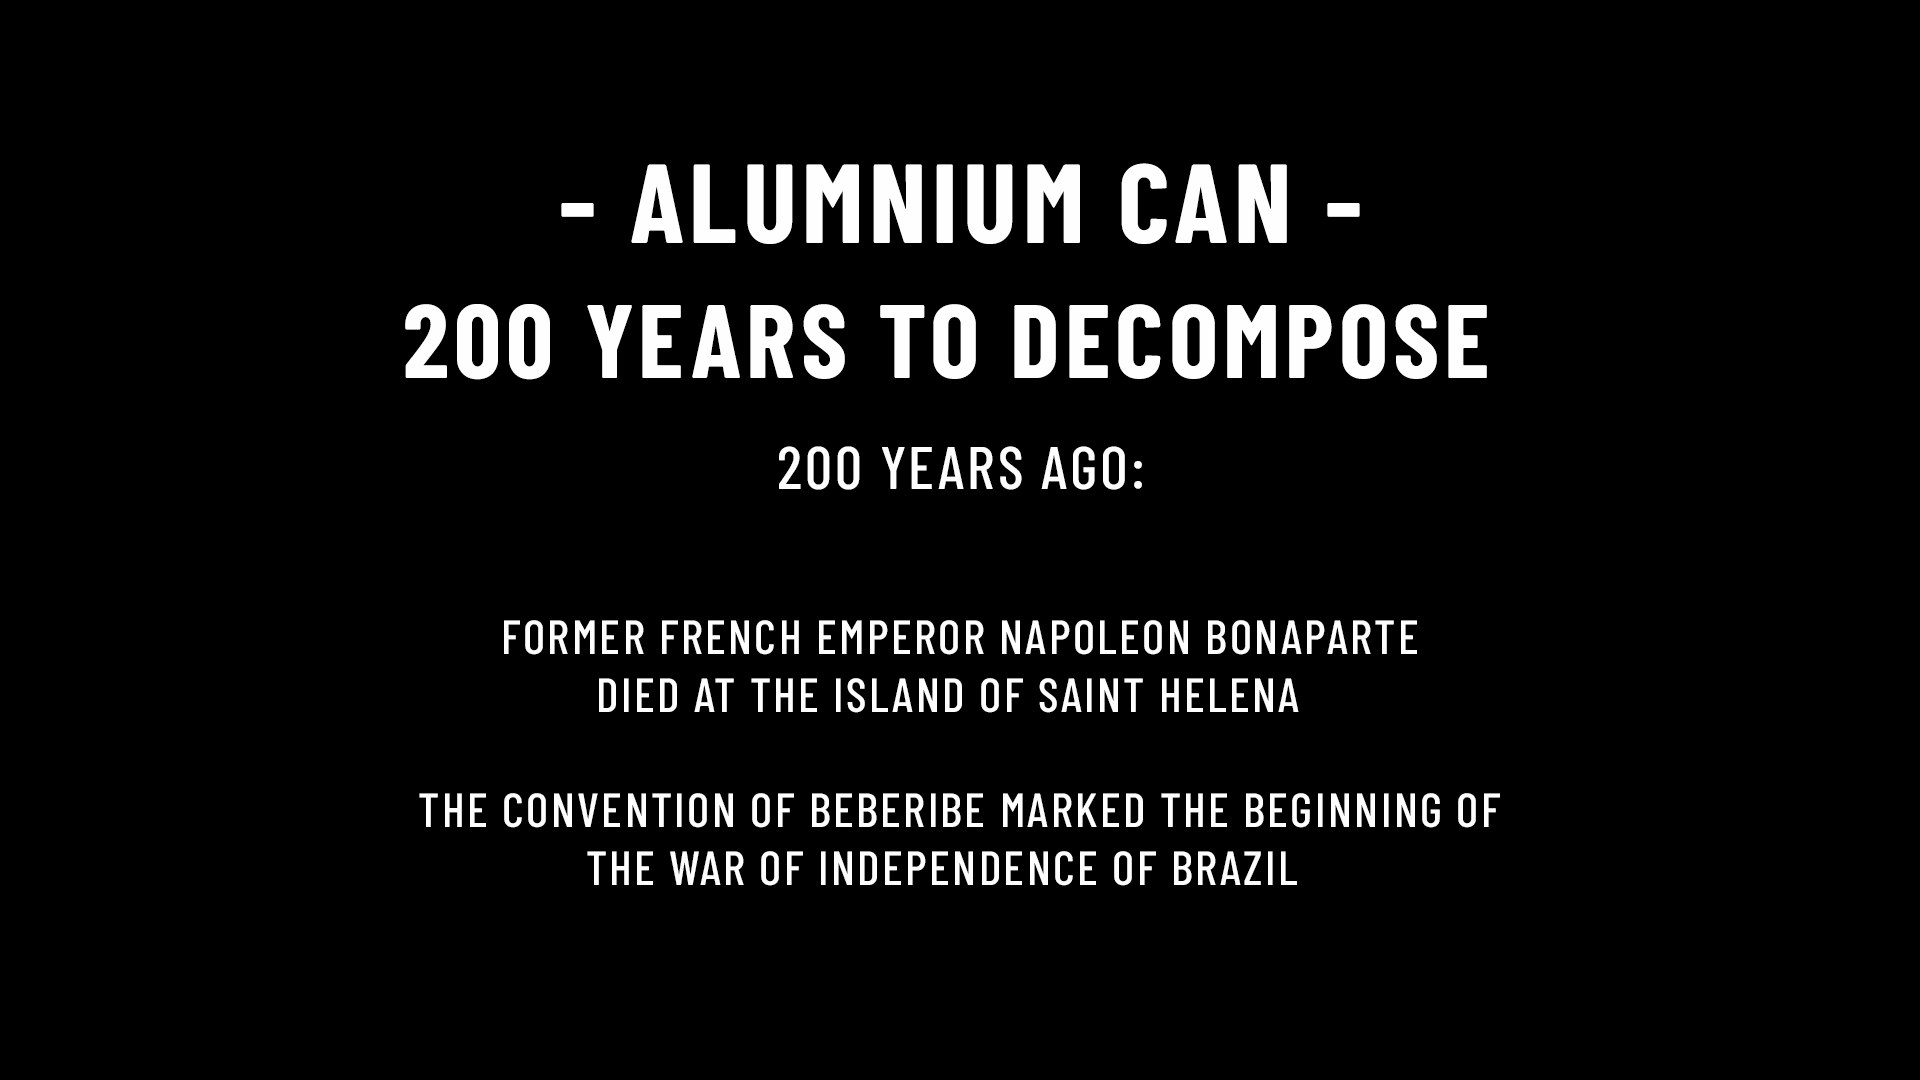
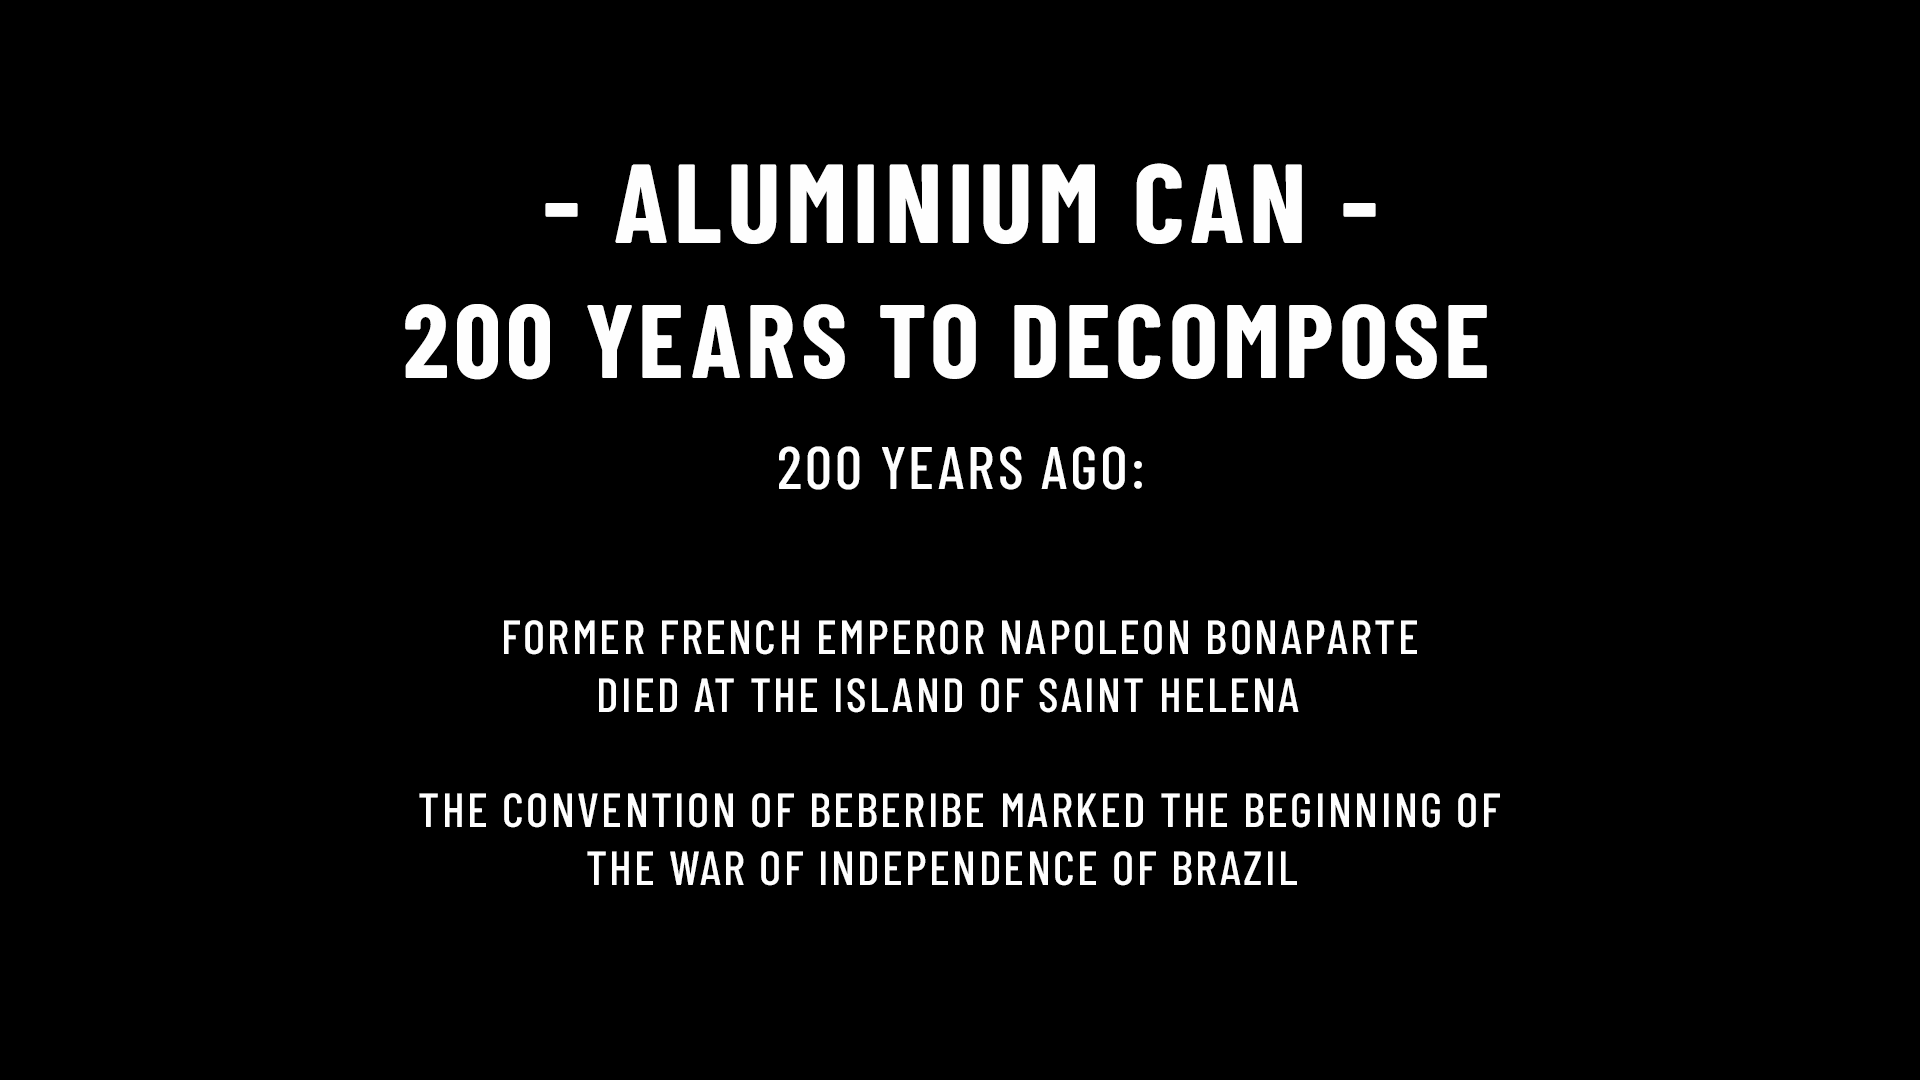
Legenda de tempos no p5 + imagens de feedback no final do timer

Changed region(s): [[0.2812, 0.1528, 0.7188, 0.2444]]

diff --git a/P5JS/teste.js b/P5JS/teste.js
@@ -11,11 +11,17 @@ let alignSlider, cohesionSlider, separationSlider;
 //timer styrofoam = 40000000
 
 function preload() {
-  plastic = loadImage('assets/plastic.jpeg');
+
+  plastic = loadImage('assets/plastic-2.jpeg');
+  plasticEnd = loadImage('assets/plastic.png');
   paperbag = loadImage('assets/paperbag-2.jpg');
-  can = loadImage('assets/can-3.jpg');
-  fruit = loadImage('assets/fruit-3.jpg');
+  paperbagEnd = loadImage('assets/paperbag.png');
+  can = loadImage('assets/can-1.jpg');
+  canEnd = loadImage('assets/can.png');
+  fruit = loadImage('assets/fruit-1.jpg');
+  fruitEnd = loadImage('assets/apple.png');
   styrofoam = loadImage('assets/styrofoam-2.jpg');
+  styrofoamEnd = loadImage('assets/styrofoam.png');
 }
 
 function setup() {
@@ -70,13 +76,17 @@ function draw() {
       boid.update();
       boid.show();
     }
+
+    fill(0, 0, 0, 255);
+    rect(0, 0, 1920, 56);
+    fill(255, 255, 255, 255);
+    textAlign(CENTER);
+    textSize(20);
+    text("APPLE - 2 MONTHS TO DECOMPOSE", width/2, 40);
   }
     
   if (timer <= 0) {
-    textSize(20);
-    background(0);
-    Fill(255);
-    text("APPLE – 2 MONTHS TO DECOMPOSE", 400, height/2);
+    image(fruitEnd, 0, 0);
   }
 
   //paperbag - case 2
@@ -101,13 +111,17 @@ function draw() {
       boid.update();
       boid.show();
     }
+
+    fill(0, 0, 0, 255);
+    rect(0, 0, 1920, 56);
+    fill(255, 255, 255, 255);
+    textAlign(CENTER);
+    textSize(20);
+    text("PAPERBAG - 8 WEEKS TO DECOMPOSE", width/2, 40);
   }
     
   if (timer <= 0) {
-    textSize(20);
-    background(0);
-    Fill(255);
-    text("PAPERBAG – 8 WEEKS TO DECOMPOSE", 400, height/2);
+    image(paperbagEnd, 0, 0);
   }
 
   //can - case 3
@@ -132,13 +146,17 @@ function draw() {
       boid.update();
       boid.show();
     }
+
+    fill(0, 0, 0, 255);
+    rect(0, 0, 1920, 56);
+    fill(255, 255, 255, 255);
+    textAlign(CENTER);
+    textSize(20);
+    text("ALUMINIUM CAN - 200 YEARS TO DECOMPOSE", width/2, 40);
   }
     
   if (timer <= 0) {
-    textSize(20);
-    background(0);
-    Fill(255);
-    text("ALUMNIUM CAN – 200 YEARS TO DECOMPOSE", 400, height/2);
+    image(canEnd, 0, 0);
   }
 
   //plastic - case 4
@@ -163,18 +181,22 @@ function draw() {
       boid.update();
       boid.show();
     }
+
+    fill(0, 0, 0, 255);
+    rect(0, 0, 1920, 56);
+    fill(255, 255, 255, 255);
+    textAlign(CENTER);
+    textSize(20);
+    text("PLASTIC BOTTLE - 450 YEARS TO DECOMPOSE", width/2, 40);
   }
     
   if (timer <= 0) {
-    textSize(20);
-    background(0);
-    Fill(255);
-    text("PLASTIC BOTTLE – 450 YEARS TO DECOMPOSE ", 400, height/2);
+    image(plasticEnd, 0, 0);
   }
 
   //styrofoam - case 5
   timer = 40000000
-  if (timer > 0) {
+  if (timer >= 39999000) {
     timer = timer-1;
     print(timer);
     var x1 = random(width);
@@ -194,18 +216,76 @@ function draw() {
       boid.update();
       boid.show();
     }
-  }
-    
-  if (timer <= 0) {
+
+    fill(0, 0, 0, 255);
+    rect(0, 0, 1920, 56);
+    fill(255, 255, 255, 255);
+    textAlign(CENTER);
     textSize(20);
-    background(0);
-    Fill(255);
-    text("Did you know that styrofoam takes 1000000 years to decompose?", 400, height/2);
+    text("STYROFOAM - 1 MILLION YEARS TO DECOMPOSE", width/2, 40);
+
   }
-  fill(0, 0, 0, 255);
-  rect(0, 900, 1920, 100);
-  fill(255, 255, 255, 255);
-  textSize(20);
-  text("STYROFOAM – 1 MILLION YEARS TO DECOMPOSE ", 200, 950);
+
+  if (timer > 0 && timer <= 39999000) {
+    timer = timer-1;
+    print(timer);
+    var x1 = random(width);
+    var y1 = random(height);
+
+    var x2 = round(x1 + random(-1, 1));
+    var y2 = round(y1 + random(-1, 1));
+
+    var w = 150;
+    var h = 50;
+
+    set(x2, y2, get(x1, y1, w, h));
+    
+    for (let boid of flock) {
+      boid.edges();
+      boid.flock(flock);
+      boid.update();
+      boid.show();
+    }
+    
+    fill(0, 0, 0, 255);
+    rect(0, 0, 1920, 56);
+    fill(255, 255, 255, 255);
+    textAlign(CENTER);
+    textSize(20);
+    text("1 MILLION YEARS AGO, HOMO ERECTUS WAS THE CURRENT SPECIES OF THE HOMO GENUS TO ROAM THE EARTH, AND WERE OUR EARLIEST ANCESTOR CAPABLE TO USE FIRE", width/2, 40);
+  }
+
+  if (timer > 0 && timer <= 39998000) {
+    timer = timer-1;
+    print(timer);
+    var x1 = random(width);
+    var y1 = random(height);
+
+    var x2 = round(x1 + random(-1, 1));
+    var y2 = round(y1 + random(-1, 1));
+
+    var w = 150;
+    var h = 50;
+
+    set(x2, y2, get(x1, y1, w, h));
+    
+    for (let boid of flock) {
+      boid.edges();
+      boid.flock(flock);
+      boid.update();
+      boid.show();
+    }
+    
+    fill(0, 0, 0, 255);
+    rect(0, 0, 1920, 56);
+    fill(255, 255, 255, 255);
+    textAlign(CENTER);
+    textSize(20);
+    text("1 MILLION YEARS AGO, THE HOMO SAPIENS WOULD NOT APPEAR UNTIL AROUND 650.000 YEARS LATER", width/2, 40);
+  }
+
+  if (timer <= 0) {
+    image(styrofoamEnd, 0, 0);
+  }
 }
 
